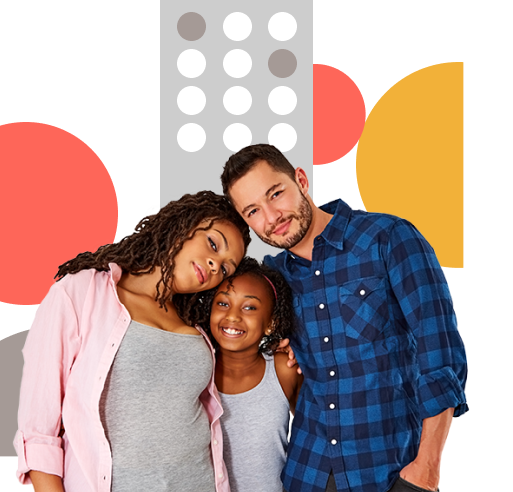
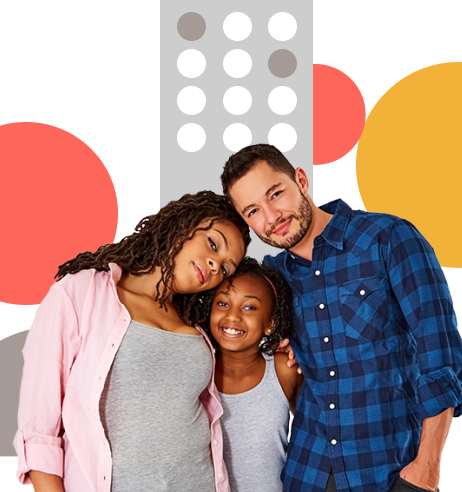
Mobile homepage

diff --git a/src/components/search/Search.scss b/src/components/search/Search.scss
@@ -27,7 +27,10 @@
 
 .searchIcon {
   z-index: 10;
-  border: none;
+  border-top: 2px solid white;
+  border-left: 2px solid white;
+  border-bottom: 2px solid white;
+  border-right: none;
   border-radius: 0 1.5rem 1.5rem 0;
   position: relative;
   right: 0rem;
@@ -40,6 +43,11 @@
   padding-right:1.5rem;
   place-items: center;
   color: $dark;
+
+  @media (max-width: 800px) {
+    padding-left: 1rem;
+    padding-right: 2rem;
+  }
 }
 
 .searchIcon img {

diff --git a/src/pages/home.scss b/src/pages/home.scss
@@ -185,7 +185,7 @@
     }
   }
 
-  .mission-hero {
+  .mission-hero, .cwp-home-hero {
     .usa-hero-callout.usa-section-dark {
       display: flex;
       flex-direction: column;
@@ -208,14 +208,11 @@
     padding-right: 2rem;
   }
 
-  .bgImage {
-    display: none;
-  }
-
   .usa-hero {
     width: auto;
     margin: 0;
-    padding: 0 1rem;
+    padding: 0 !important;
+    max-height: none !important;
 
     .usa-hero-callout {
       max-width: 100%;

diff --git a/src/components/hero/hero.scss b/src/components/hero/hero.scss
@@ -66,9 +66,15 @@
 
 
 @media (max-width: 64em) {
-.cwp-search-hero {
-  .usa-hero-callout {
-    width: 100%;
+  .cwp-search-hero {
+    .usa-hero-callout {
+      width: 100%;
+    }
   }
-}
+  
+  
+  .usa-hero-callout {
+    padding-left: 1rem;
+    padding-bottom: 3rem;
+  }
 }

diff --git a/src/pages/recommendation/recommendation.scss b/src/pages/recommendation/recommendation.scss
@@ -15,6 +15,9 @@
 
 .cwp-main {
   margin: 2rem 1rem;
+  @media (max-width: 800px) {
+    margin: 2rem 0;
+  }
 }
 
 .section-title {

diff --git a/src/pages/topic/topic.scss b/src/pages/topic/topic.scss
@@ -15,6 +15,9 @@
 
 .cwp-main {
   margin: 2rem 1rem;
+  @media (max-width: 800px) {
+    margin: 2rem 0;
+  }
 }
 
 .section-title {
